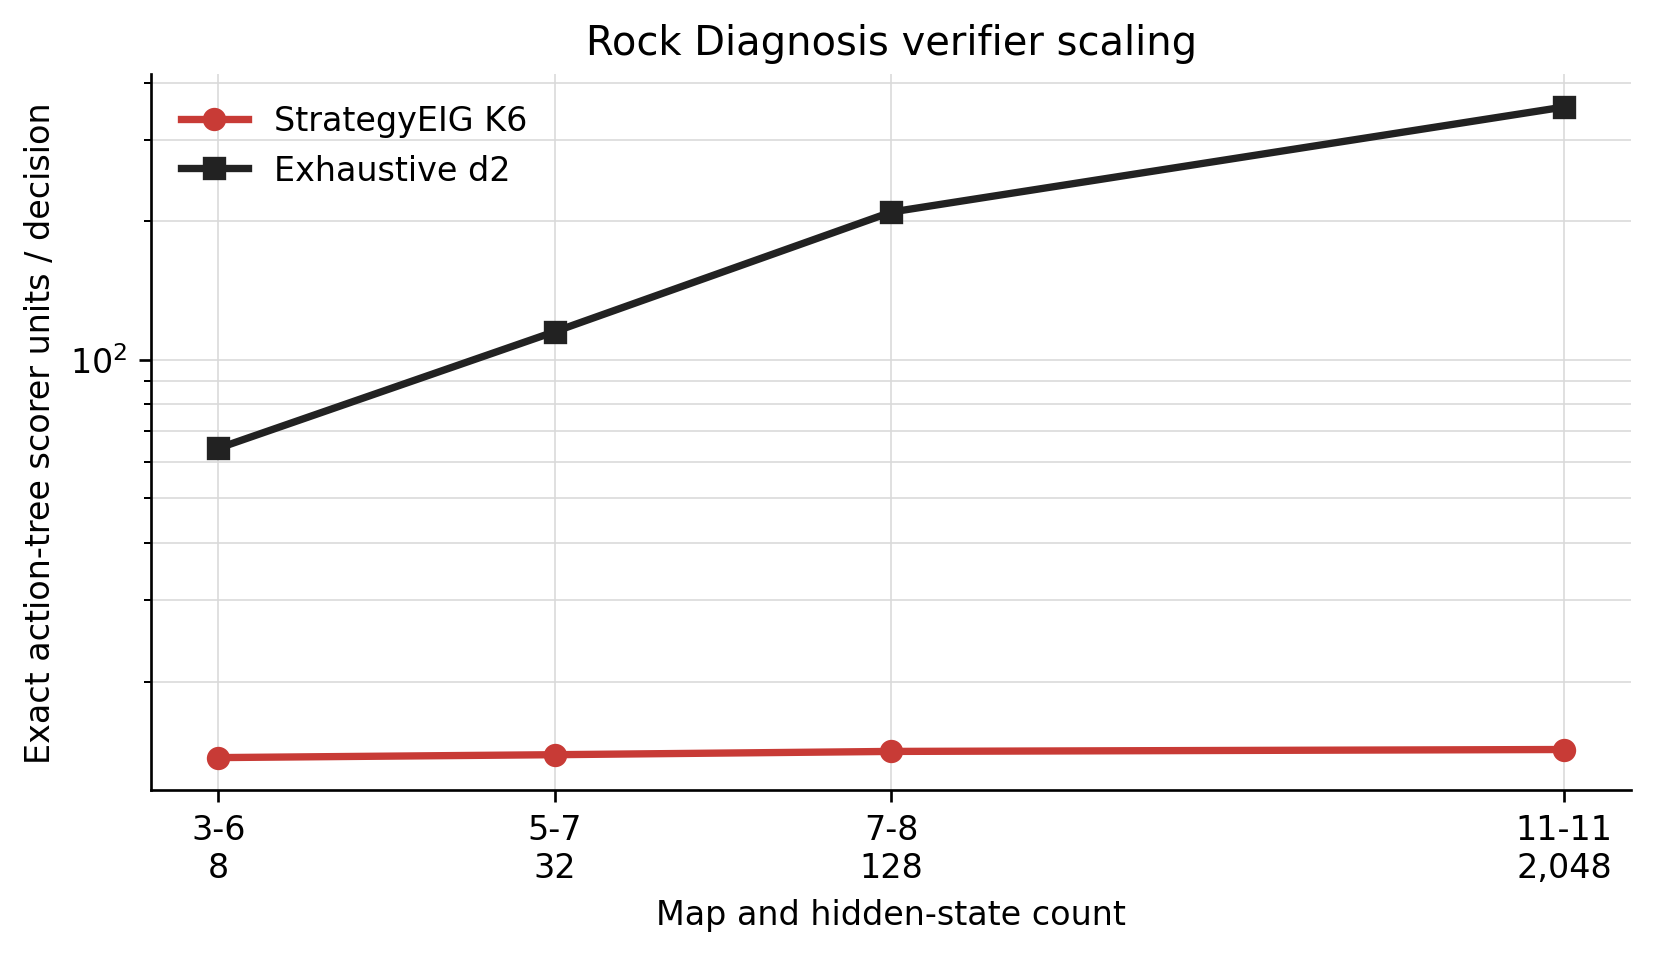
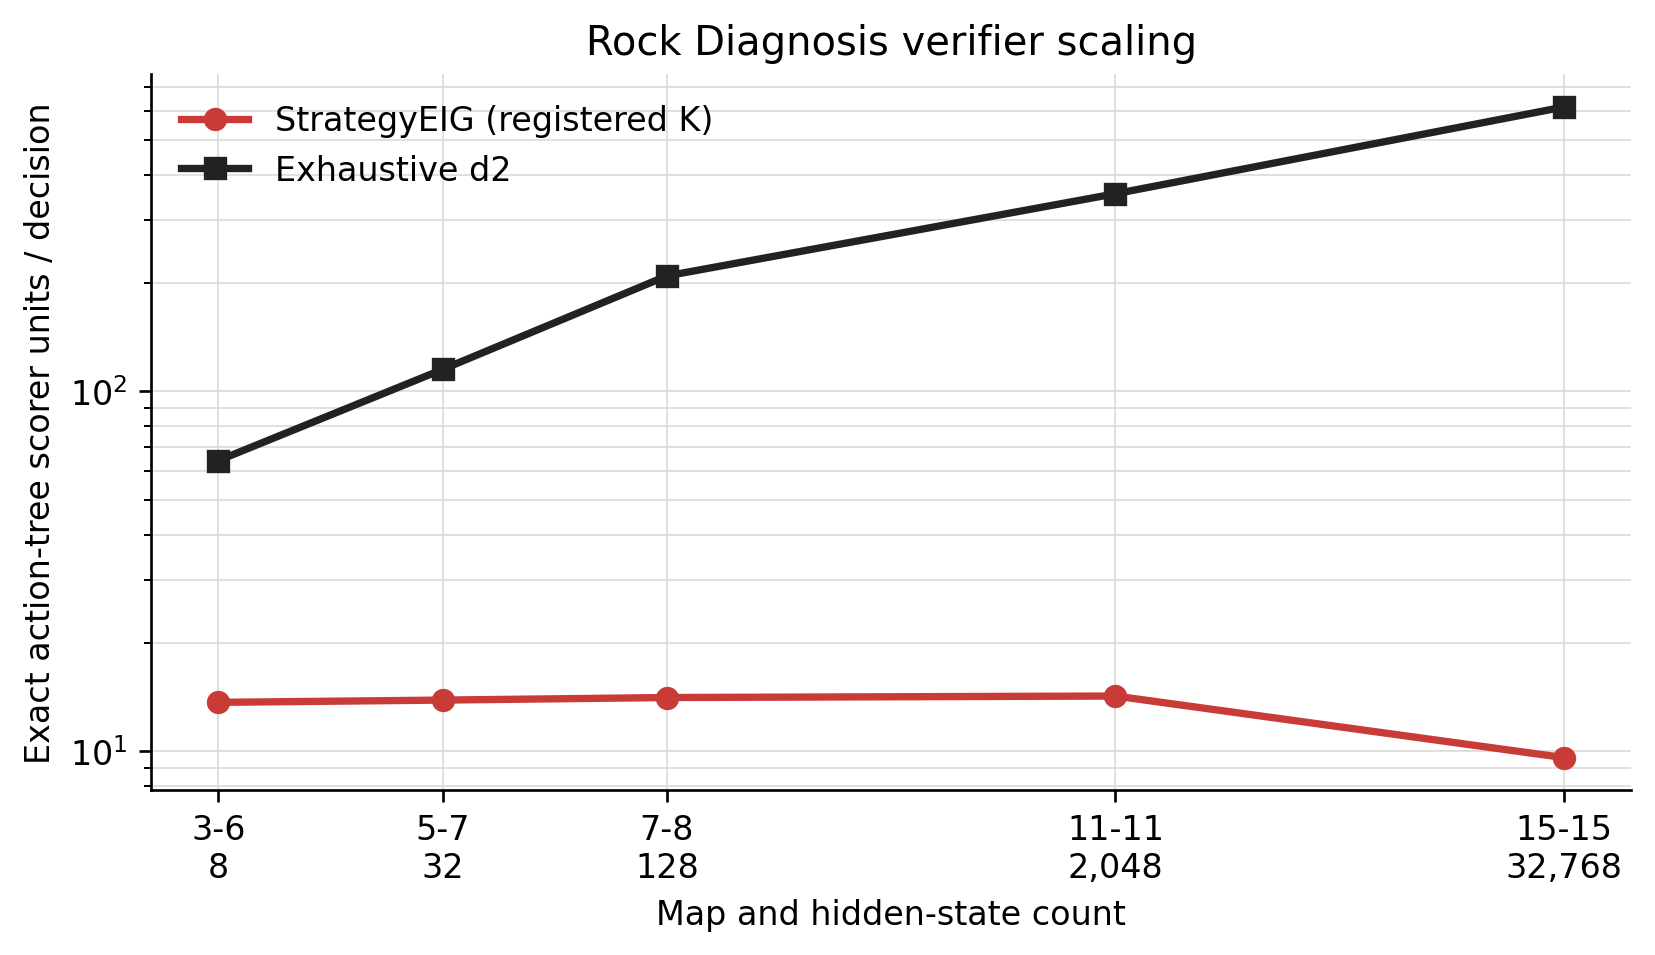
Extend Rock verifier scaling to fifteen rocks

diff --git a/scripts/analyze_nonmyopic_rocksample_scaling.py b/scripts/analyze_nonmyopic_rocksample_scaling.py
@@ -32,6 +32,13 @@ EXPECTED_RUNS = (
         "num_rounds": 12,
         "num_strategies": 6,
     },
+    {
+        "run_id": "nonmyopic-rocksample-15-15-vllm-replication-20260722",
+        "maps": ("15-15",),
+        "num_trials_per_map": 30,
+        "num_rounds": 15,
+        "num_strategies": 4,
+    },
 )
 
 
@@ -61,6 +68,7 @@ def analyze(payloads: list[dict[str, Any]]) -> dict[str, Any]:
                     "map_name": map_name,
                     "num_rocks": num_rocks,
                     "hidden_states": 2**num_rocks,
+                    "num_strategies": expected["num_strategies"],
                     "strategy_exact_units_per_decision": strategy_units,
                     "exhaustive_d2_units_per_decision": exhaustive_units,
                     "exhaustive_to_strategy_unit_ratio": exhaustive_units
@@ -92,7 +100,7 @@ def analyze(payloads: list[dict[str, Any]]) -> dict[str, Any]:
     assert ratios == sorted(ratios)
     return {
         "schema_version": 1,
-        "claim": "bounded_k6_action_tree_work_grows_slower_than_exhaustive_d2_width",
+        "claim": "registered_bounded_k_action_tree_work_grows_slower_than_exhaustive_d2_width",
         "unit_definition": (
             "One exact scorer unit is one evaluated action node in the depth-two "
             "policy tree; it is not a wall-clock or hidden-state likelihood operation."
@@ -109,12 +117,13 @@ def render_report(audit: dict[str, Any]) -> str:
         "",
         audit["unit_definition"],
         "",
-        "| Map | Hidden states | StrategyEIG units / decision | Exhaustive d2 units / decision | Exhaustive / StrategyEIG | LLM calls / decision |",
-        "| --- | ---: | ---: | ---: | ---: | ---: |",
+        "| Map | Hidden states | K | StrategyEIG units / decision | Exhaustive d2 units / decision | Exhaustive / StrategyEIG | LLM calls / decision |",
+        "| --- | ---: | ---: | ---: | ---: | ---: | ---: |",
     ]
     for row in audit["rows"]:
         lines.append(
             f"| {row['map_name']} | {row['hidden_states']:,} | "
+            f"{row['num_strategies']} | "
             f"{row['strategy_exact_units_per_decision']:.2f} | "
             f"{row['exhaustive_d2_units_per_decision']:.2f} | "
             f"{row['exhaustive_to_strategy_unit_ratio']:.2f}x | "
@@ -123,11 +132,15 @@ def render_report(audit: dict[str, Any]) -> str:
     lines.extend(
         [
             "",
-            "K6 StrategyEIG keeps exact action-tree width nearly constant while exhaustive "
-            "d2 expands every legal root and continuation. The relative node reduction "
-            "therefore grows monotonically from 4.70x to 24.88x across the confirmed maps. "
+            "Registered bounded-K StrategyEIG keeps exact action-tree width small while "
+            "exhaustive d2 expands every legal root and continuation. The relative node "
+            "reduction grows monotonically from 4.70x to 64.26x across the confirmed maps. "
             "Every StrategyEIG decision uses one proposal call and exact rollout scoring "
             "uses no LLM calls.",
+            "",
+            "The first four runs use K6; the preregistered 15-rock run uses K4 after K4 "
+            "matched K6 endpoint quality in the 11-rock width study. This is observed "
+            "registered-budget scaling, not a fixed-K causal comparison.",
             "",
             "These ratios isolate action-tree work. Both methods still evaluate likelihoods "
             "over the full hidden-state vector, so they are not wall-clock speedups.",
@@ -143,7 +156,14 @@ def plot_scaling(audit: dict[str, Any], output_path: Path) -> None:
     exhaustive = [row["exhaustive_d2_units_per_decision"] for row in audit["rows"]]
     labels = [row["map_name"] for row in audit["rows"]]
     fig, axis = plt.subplots(figsize=(7.0, 4.1))
-    axis.plot(states, strategy, color="#c83b36", marker="o", linewidth=2.2, label="StrategyEIG K6")
+    axis.plot(
+        states,
+        strategy,
+        color="#c83b36",
+        marker="o",
+        linewidth=2.2,
+        label="StrategyEIG (registered K)",
+    )
     axis.plot(states, exhaustive, color="#222222", marker="s", linewidth=2.2, label="Exhaustive d2")
     axis.set_xscale("log", base=2)
     axis.set_yscale("log")
@@ -162,7 +182,7 @@ def plot_scaling(audit: dict[str, Any], output_path: Path) -> None:
 
 def main() -> None:
     parser = argparse.ArgumentParser(description=__doc__)
-    parser.add_argument("results", nargs=3, type=Path)
+    parser.add_argument("results", nargs=4, type=Path)
     parser.add_argument("--audit-output", type=Path, required=True)
     parser.add_argument("--summary-output", type=Path, required=True)
     parser.add_argument("--plot-output", type=Path, required=True)

diff --git a/paper/main.tex b/paper/main.tex
@@ -338,8 +338,10 @@ although its .5459 oracle gap shows model-dependent proposal quality. This exten
 the result to 2,048 latent states with zero rollout LLM calls. Exact closure raised
 LLM roots from 73.9\% to 96.9\% of oracle value, but random roots reached 96.7\%,
 localizing the LLM advantage to continuation choice; the paid gate failed. Across
-maps, K6 uses 13.7--14.2 scorer nodes/decision versus exhaustive d2's 64.3--354.2
-(4.7$\times$--24.9$\times$); these are tree-width, not wall-clock, ratios. A fresh
+the first four maps, K6 uses 13.7--14.2 scorer nodes/decision versus exhaustive
+d2's 64.3--354.2 (4.7$\times$--24.9$\times$). At 15 rocks, preregistered K4 uses
+9.60 versus 616.94 nodes (64.3$\times$). These are registered-budget tree-width,
+not wall-clock, ratios; K4 follows the 11-rock saturation result. A fresh
 11-rock width sweep passed all 18 gates: K4 beat K2 by .5655 entropy-AUC nats
 [.4974, .6418], while K6 minus K4 was .0102 [-.0156, .0337]. K4 therefore matched
 K6 endpoint quality with 9.49 instead of 14.24 scorer nodes/decision.

diff --git a/tests/test_analyze_nonmyopic_rocksample_scaling.py b/tests/test_analyze_nonmyopic_rocksample_scaling.py
@@ -13,6 +13,7 @@ SOURCES = (
     ROOT / "results/nonmyopic/rocksample_7_8_scale_20260721/L1.json",
     ROOT
     / "results/nonmyopic/rocksample_11_11_gemma_slot_confirmation_20260721/L1.json",
+    ROOT / "results/nonmyopic/rocksample_15_15_vllm_replication_20260722/L1.json",
 )
 
 
@@ -28,10 +29,12 @@ def test_scaling_audit_uses_all_confirmed_maps() -> None:
         "5-7",
         "7-8",
         "11-11",
+        "15-15",
     ]
-    assert audit["rows"][-1]["hidden_states"] == 2048
+    assert audit["rows"][-1]["hidden_states"] == 32768
+    assert audit["rows"][-1]["num_strategies"] == 4
     assert audit["rows"][-1]["exhaustive_to_strategy_unit_ratio"] == pytest.approx(
-        24.8780487805
+        64.2645833333
     )
     assert audit["rollout_scoring_llm_calls"] == 0
 

diff --git a/EXPERIMENTS.md b/EXPERIMENTS.md
@@ -11,7 +11,7 @@ metrics land.
 | 2026-07-22 | RockSample[11,11] K2/K4/K6 proposal-width robustness | Fresh paired seed 24085 at each K; 30 trials, 12 rounds, h2; width-specific shared-d1/matched-width/random controls and exhaustive d2; three fresh smokes | `google/gemma-4-26b-a4b-it`, OpenRouter, reasoning off | **Complete; all 18 all-width gates pass** | Every K independently has positive entropy-AUC and truth-log lower bounds against all controls. K4 beats K2 by +.5655 entropy AUC (95% CI [.4974,.6418]); K6-minus-K4 is +.0102 ([-.0156,.0337]), showing saturation. K2/K4/K6 use 4.75/9.49/14.24 verifier nodes per decision versus exact d2's 354.17; exact gaps are -.750/-.184/-.174. Three smokes passed 10/10; formal runs made 3,157 requests, 7 bounded rejects, zero reasoning/forced exits/rollout calls, and cost `$0.79891053`. | `results/nonmyopic/ROCKSAMPLE_11_11_PROPOSAL_WIDTH_PREREGISTRATION.md`; `results/nonmyopic/rocksample_11_11_width_k2_smoke_20260721/SMOKE.json`; `results/nonmyopic/rocksample_11_11_width_k4_smoke_20260721/SMOKE.json`; `results/nonmyopic/rocksample_11_11_width_k6_smoke_20260721/SMOKE.json`; `results/nonmyopic/rocksample_11_11_width_k2_seed_24085_20260721/L1.json`; `results/nonmyopic/rocksample_11_11_width_k4_seed_24085_20260721/L1.json`; `results/nonmyopic/rocksample_11_11_width_k6_seed_24085_20260721/L1.json`; `results/nonmyopic/rocksample_11_11_proposal_width_20260721/AUDIT.json`; `results/nonmyopic/ROCKSAMPLE_11_11_PROPOSAL_WIDTH_RESULT.md`; `plots/nonmyopic/rocksample_11_11_proposal_width.png` | result package pending commit |
 | 2026-07-21 | RockSample[11,11] Gemma three-seed robustness replication | Fresh seeds 24081--24083; 30 paired trials/seed, 12 rounds, K6, h2; identical root slots and full shared-d1/width/random/exact-d2 controls; fresh smoke first | `google/gemma-4-26b-a4b-it`, OpenRouter, reasoning off | **Complete; all 18 per-seed gates pass** | Every seed independently has positive entropy-AUC and truth-log-AUC lower bounds against all three controls. Pooled fresh-seed entropy gains: +.9470 shared (95% CI [.9253,.9671]), +.9440 width ([.9228,.9637]), +.8727 random ([.8359,.9073]); 90/0/0 each. Exact-d2 gaps range -.186 to -.146. Smoke passed 10/10 for `$0.00415249`; formal runs made 3,158 requests with 8 bounded rejects, zero reasoning/forced exits/rollout LLM calls, and cost `$0.92354428`. Independent trace audit passes. | `results/nonmyopic/ROCKSAMPLE_11_11_GEMMA_MULTISEED_PREREGISTRATION.md`; `results/nonmyopic/rocksample_11_11_gemma_multiseed_smoke_20260721/SMOKE.json`; seed-specific `results/nonmyopic/rocksample_11_11_gemma_seed_24081_20260721/L1.json`, `24082`, and `24083`; `results/nonmyopic/rocksample_11_11_gemma_multiseed_20260721/AUDIT.json`; `results/nonmyopic/ROCKSAMPLE_11_11_GEMMA_MULTISEED_RESULT.md`; `plots/nonmyopic/rocksample_11_11_gemma_multiseed_entropy.png` | result package pending commit |
 | 2026-07-21 | RockSample[11,11] GPT-5.4 Mini root-slot replication | Fresh seed 24080; 30 paired trials, 12 rounds, K6, h2; identical ordered movement slots; shared-d1, exhaustive-d1 width, matched-random, exhaustive-d2; entropy-AUC primary; smoke first | `openai/gpt-5.4-mini`, OpenRouter, reasoning off | **Complete; all six replication gates pass** | Smoke passed 10/10 for `$0.03416175`. Entropy-AUC gains: +.5811 vs shared d1 (95% CI [.4672,.6909]), +.5528 vs width ([.4374,.6613]), +.4688 vs random ([.3364,.5919]); all truth-log CIs positive. StrategyEIG moves 231/360 times, reaches .626 mean h2 exhaustive fraction, and is -.5459 from exhaustive d2. A fail-closed artifact banked 1,038 accepted cells and 20 rejects; the unchanged resume completed with 1,069 cumulative requests, zero reasoning/forced exits/rollout LLM calls, and `$2.54133255` cumulative cost. Independent cross-model trace audit passes. | `results/nonmyopic/ROCKSAMPLE_11_11_GPT54MINI_PREREGISTRATION.md`; `results/nonmyopic/rocksample_11_11_gpt54mini_slot_smoke_20260721/SMOKE.json`; `results/nonmyopic/rocksample_11_11_gpt54mini_slot_replication_20260721/L1_FAILURE.json`; `results/nonmyopic/rocksample_11_11_gpt54mini_slot_replication_20260721/L1.json`; `results/nonmyopic/rocksample_11_11_model_replication_20260721/AUDIT.json`; `results/nonmyopic/ROCKSAMPLE_11_11_MODEL_REPLICATION_RESULT.md`; `plots/nonmyopic/rocksample_11_11_model_replication_entropy.png` | result package pending commit |
-| 2026-07-21 | Rock Diagnosis exact-scorer scaling audit | All four preregistered positive maps (3-6, 5-7, 7-8, 11-11); frozen stored scorer-unit accounting; K6 StrategyEIG versus exhaustive d2 | Exact artifact replay; **zero LLM calls** | **Complete; descriptive compute audit** | StrategyEIG exact action-tree nodes stay 13.67, 13.87, 14.10, 14.24 per decision while exhaustive d2 rises 64.25, 115.13, 209.40, 354.17. The exhaustive/StrategyEIG ratio grows monotonically 4.70x, 8.30x, 14.85x, 24.88x. This is action-tree width, not wall-clock: both methods scan the full 8-to-2,048-state belief. One proposal call/decision; zero rollout LLM calls. | `results/nonmyopic/rocksample_scaling_20260721/AUDIT.json`; `results/nonmyopic/ROCKSAMPLE_SCALING_RESULT.md`; `plots/nonmyopic/rocksample_exact_scorer_scaling.png` | result package pending commit |
+| 2026-07-21 | Rock Diagnosis exact-scorer scaling audit, extended 2026-07-22 | All five preregistered positive maps (3-6, 5-7, 7-8, 11-11, 15-15); frozen stored scorer-unit accounting; registered bounded-K StrategyEIG versus exhaustive d2 | Exact artifact replay; **zero LLM calls** | **Complete; descriptive compute audit** | StrategyEIG exact action-tree nodes are 13.67, 13.87, 14.10, 14.24, and 9.60 per decision while exhaustive d2 rises 64.25, 115.13, 209.40, 354.17, and 616.94. The observed exhaustive/StrategyEIG ratio grows 4.70x, 8.30x, 14.85x, 24.88x, and 64.26x. The first four runs use K6; 15-rock uses preregistered K4 after 11-rock K4/K6 saturation. This is registered action-tree width, not fixed-K or wall-clock scaling; both methods scan the full 8-to-32,768-state belief. One proposal call/decision; zero rollout LLM calls. | `results/nonmyopic/rocksample_scaling_20260721/AUDIT.json`; `results/nonmyopic/ROCKSAMPLE_SCALING_RESULT.md`; `plots/nonmyopic/rocksample_exact_scorer_scaling.png` | result package pending commit |
 | 2026-07-21 | RockSample[11,11] exact follow-up closure screen | Banked seed-24079 Gemma K6 h2 StrategyEIG and matched-random visited states; fixed roots, exact best legal continuation on every branch; same frozen thresholds as eight-rock screen | Exact finite-state replay; **zero LLM calls** | **Complete; paid-policy gate failed** | Gemma closure raises mean exhaustive fraction from .7390 to .9686 (+.2296), with 317/330=.9606 optimal-root coverage and no worsened states. Random closure rises from .2304 to .9669, so the closed LLM/random gap is only +.0017. The .97 closed-fraction and +.03 separation conditions fail; no paid run follows. This localizes the LLM contribution primarily to continuation quality rather than exclusive root coverage. | `results/nonmyopic/ROCKSAMPLE_11_11_FOLLOWUP_CLOSURE_PREREGISTRATION.md`; `results/nonmyopic/rocksample_11_11_followup_closure_20260721/REPORT.json`; `results/nonmyopic/rocksample_11_11_followup_closure_20260721/REPORT.md`; `results/nonmyopic/ROCKSAMPLE_11_11_FOLLOWUP_CLOSURE_RESULT.md` | result package pending commit |
 | 2026-07-21 | `nonmyopic-rocksample-11-11-gemma-slot-confirmation-20260721` | Standard RockSample[11,11] diagnosis geometry; fresh seed 24079; 30 paired trials, 12 rounds, K6, h2; ordered movement slots; shared-d1, exhaustive-d1 width, matched-random, exhaustive-d2; entropy-AUC primary | `google/gemma-4-26b-a4b-it`, OpenRouter, non-thinking | **Complete; scale primary and corroboration gates pass** | Fresh smoke passed 10/10 for `$0.00379291`. Formal entropy-AUC gains: +.9412 vs shared d1 (95% CI [.8968,.9807]), +.9387 vs width ([.8952,.9773]), +.8867 vs random ([.8305,.9385]); 30/0/0 each. All truth-log CIs are positive. StrategyEIG moves 195/360 times, reaches .739 mean h2 exhaustive fraction, and is -.1629 from exhaustive d2. All 1,050 cells resolved with one retained reject, zero terminal failures/resume/reasoning/forced exits/rollout LLM calls; 1,051 requests, `$0.30078251`. Independent trace audit passes. | `results/nonmyopic/ROCKSAMPLE_11_11_LLM_PREREGISTRATION.md`; `results/nonmyopic/rocksample_11_11_gemma_slot_smoke_20260721/SMOKE.json`; `results/nonmyopic/rocksample_11_11_gemma_slot_confirmation_20260721/L1.json`; `results/nonmyopic/rocksample_11_11_gemma_slot_confirmation_20260721/AUDIT.json`; `results/nonmyopic/ROCKSAMPLE_11_11_LLM_RESULT.md`; `plots/nonmyopic/rocksample_11_11_gemma_slot_entropy.png` | result package pending commit |
 | 2026-07-21 | RockSample[11,11] exact scale qualification | Fresh seed 24078; 500 paired trajectories, 12 rounds; exhaustive d1/d2 over all currently legal roots (up to 15) and positive-probability branches; entropy-AUC primary; 10,000 paired bootstraps | Exact finite-state `pomdp_py==1.3.5.1`; **zero LLM calls** | **Complete; structural and corroboration gates pass** | D2 minus d1 entropy AUC +1.1042 nats (95% CI [1.1015,1.1068], 500/0/0); truth-log AUC +1.1129 ([1.0885,1.1377]); final entropy +2.0471. Greedy moves 0/6,000 times; d2 moves 4,000/6,000 and follows one enabling route across all truths. All mechanics and an independent trace audit pass. The pre-endpoint action-count clarification remains recorded. | `results/nonmyopic/ROCKSAMPLE_11_11_SCALE_PREREGISTRATION.md`; `results/nonmyopic/rocksample_11_11_exact_qualification_20260721/REPORT.json`; `results/nonmyopic/rocksample_11_11_exact_qualification_20260721/REPORT.md`; `results/nonmyopic/rocksample_11_11_exact_qualification_20260721/AUDIT.json`; `results/nonmyopic/ROCKSAMPLE_11_11_SCALE_RESULT.md`; `plots/nonmyopic/rocksample_11_11_exact_entropy.png` | result package pending commit |

diff --git a/results/nonmyopic/ROCKSAMPLE_SCALING_RESULT.md b/results/nonmyopic/ROCKSAMPLE_SCALING_RESULT.md
@@ -2,13 +2,16 @@
 
 One exact scorer unit is one evaluated action node in the depth-two policy tree; it is not a wall-clock or hidden-state likelihood operation.
 
-| Map | Hidden states | StrategyEIG units / decision | Exhaustive d2 units / decision | Exhaustive / StrategyEIG | LLM calls / decision |
-| --- | ---: | ---: | ---: | ---: | ---: |
-| 3-6 | 8 | 13.67 | 64.25 | 4.70x | 1.0 |
-| 5-7 | 32 | 13.87 | 115.12 | 8.30x | 1.0 |
-| 7-8 | 128 | 14.10 | 209.40 | 14.85x | 1.0 |
-| 11-11 | 2,048 | 14.24 | 354.17 | 24.88x | 1.0 |
+| Map | Hidden states | K | StrategyEIG units / decision | Exhaustive d2 units / decision | Exhaustive / StrategyEIG | LLM calls / decision |
+| --- | ---: | ---: | ---: | ---: | ---: | ---: |
+| 3-6 | 8 | 6 | 13.67 | 64.25 | 4.70x | 1.0 |
+| 5-7 | 32 | 6 | 13.87 | 115.12 | 8.30x | 1.0 |
+| 7-8 | 128 | 6 | 14.10 | 209.40 | 14.85x | 1.0 |
+| 11-11 | 2,048 | 6 | 14.24 | 354.17 | 24.88x | 1.0 |
+| 15-15 | 32,768 | 4 | 9.60 | 616.94 | 64.26x | 1.0 |
 
-K6 StrategyEIG keeps exact action-tree width nearly constant while exhaustive d2 expands every legal root and continuation. The relative node reduction therefore grows monotonically from 4.70x to 24.88x across the confirmed maps. Every StrategyEIG decision uses one proposal call and exact rollout scoring uses no LLM calls.
+Registered bounded-K StrategyEIG keeps exact action-tree width small while exhaustive d2 expands every legal root and continuation. The relative node reduction grows monotonically from 4.70x to 64.26x across the confirmed maps. Every StrategyEIG decision uses one proposal call and exact rollout scoring uses no LLM calls.
+
+The first four runs use K6; the preregistered 15-rock run uses K4 after K4 matched K6 endpoint quality in the 11-rock width study. This is observed registered-budget scaling, not a fixed-K causal comparison.
 
 These ratios isolate action-tree work. Both methods still evaluate likelihoods over the full hidden-state vector, so they are not wall-clock speedups.
